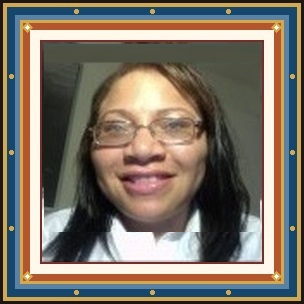
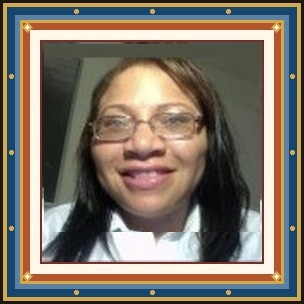
Nudge the roster photo slightly upward in the frame.

diff --git a/src/profile.ts b/src/profile.ts
@@ -44,7 +44,7 @@ export const profile = {
    * (e.g. put photo.jpg in the public/ folder and change this to "/photo.jpg").
    * It must be a real image file: the grader fetches it and checks.
    */
-  photoPath: "/photo-v4.jpg",
+  photoPath: "/photo-v5.jpg",
 
   /**
    * Who can see your roster card:
